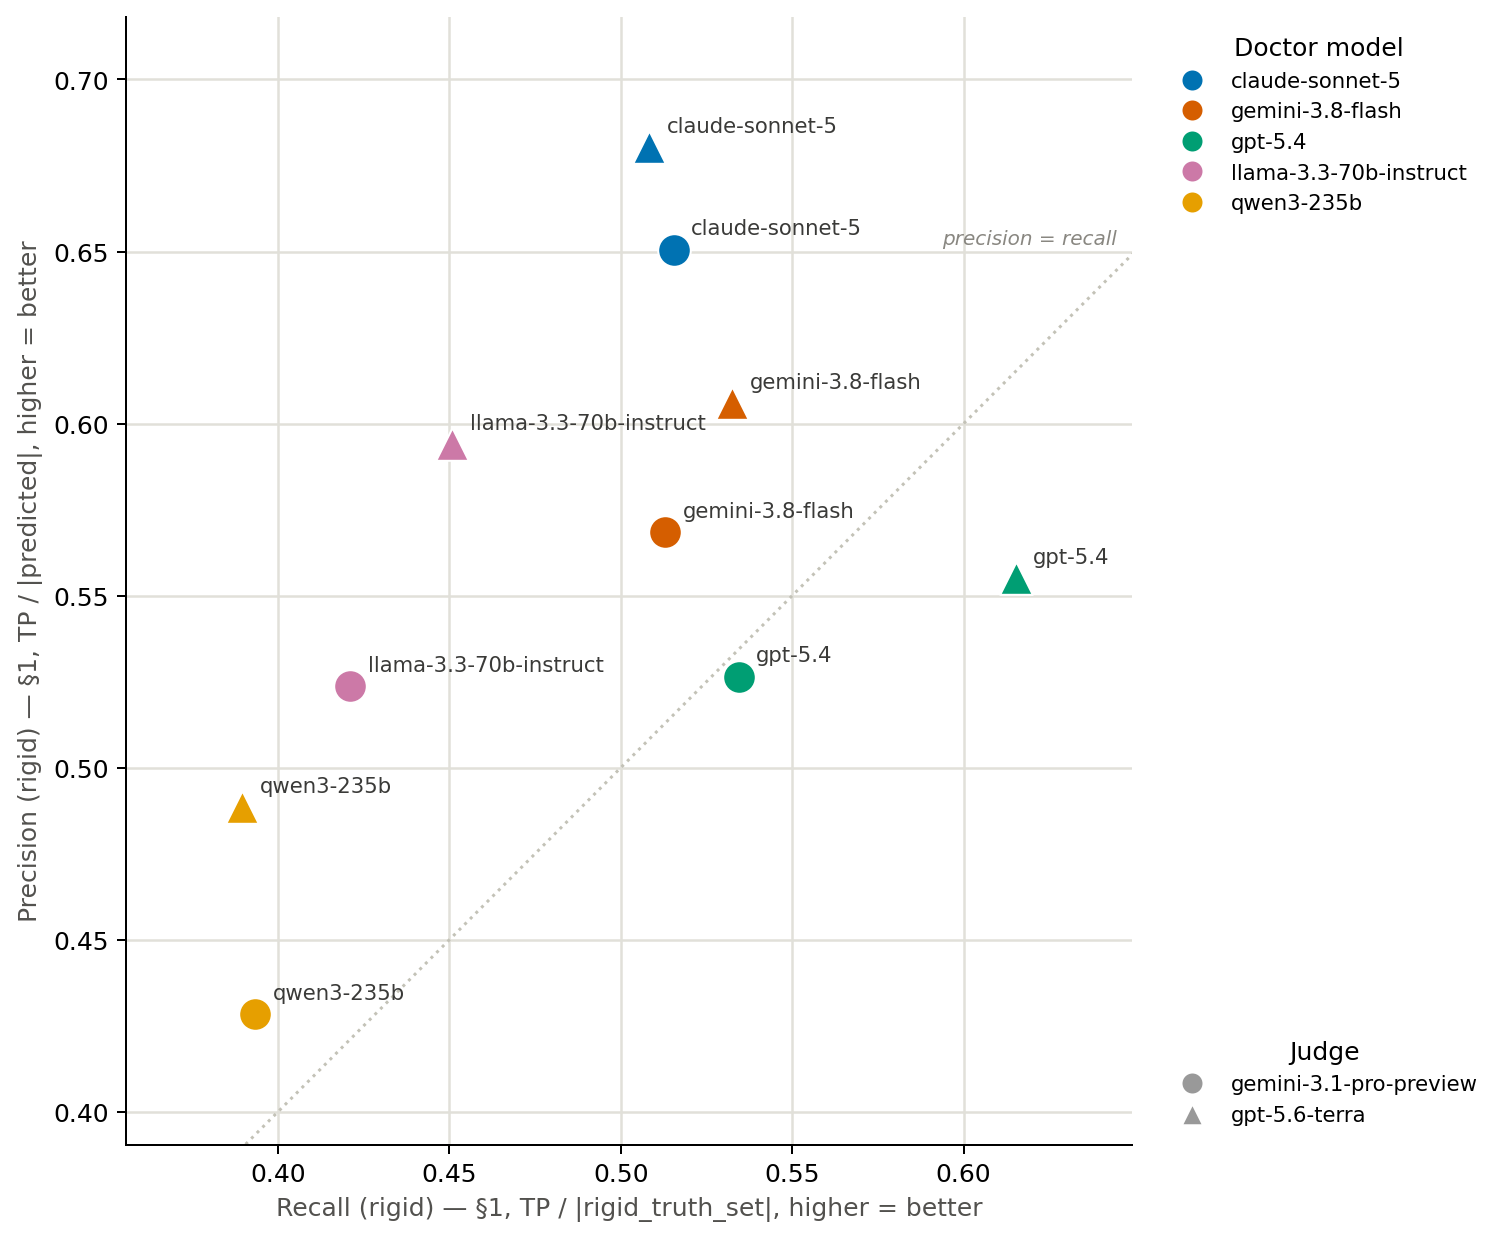
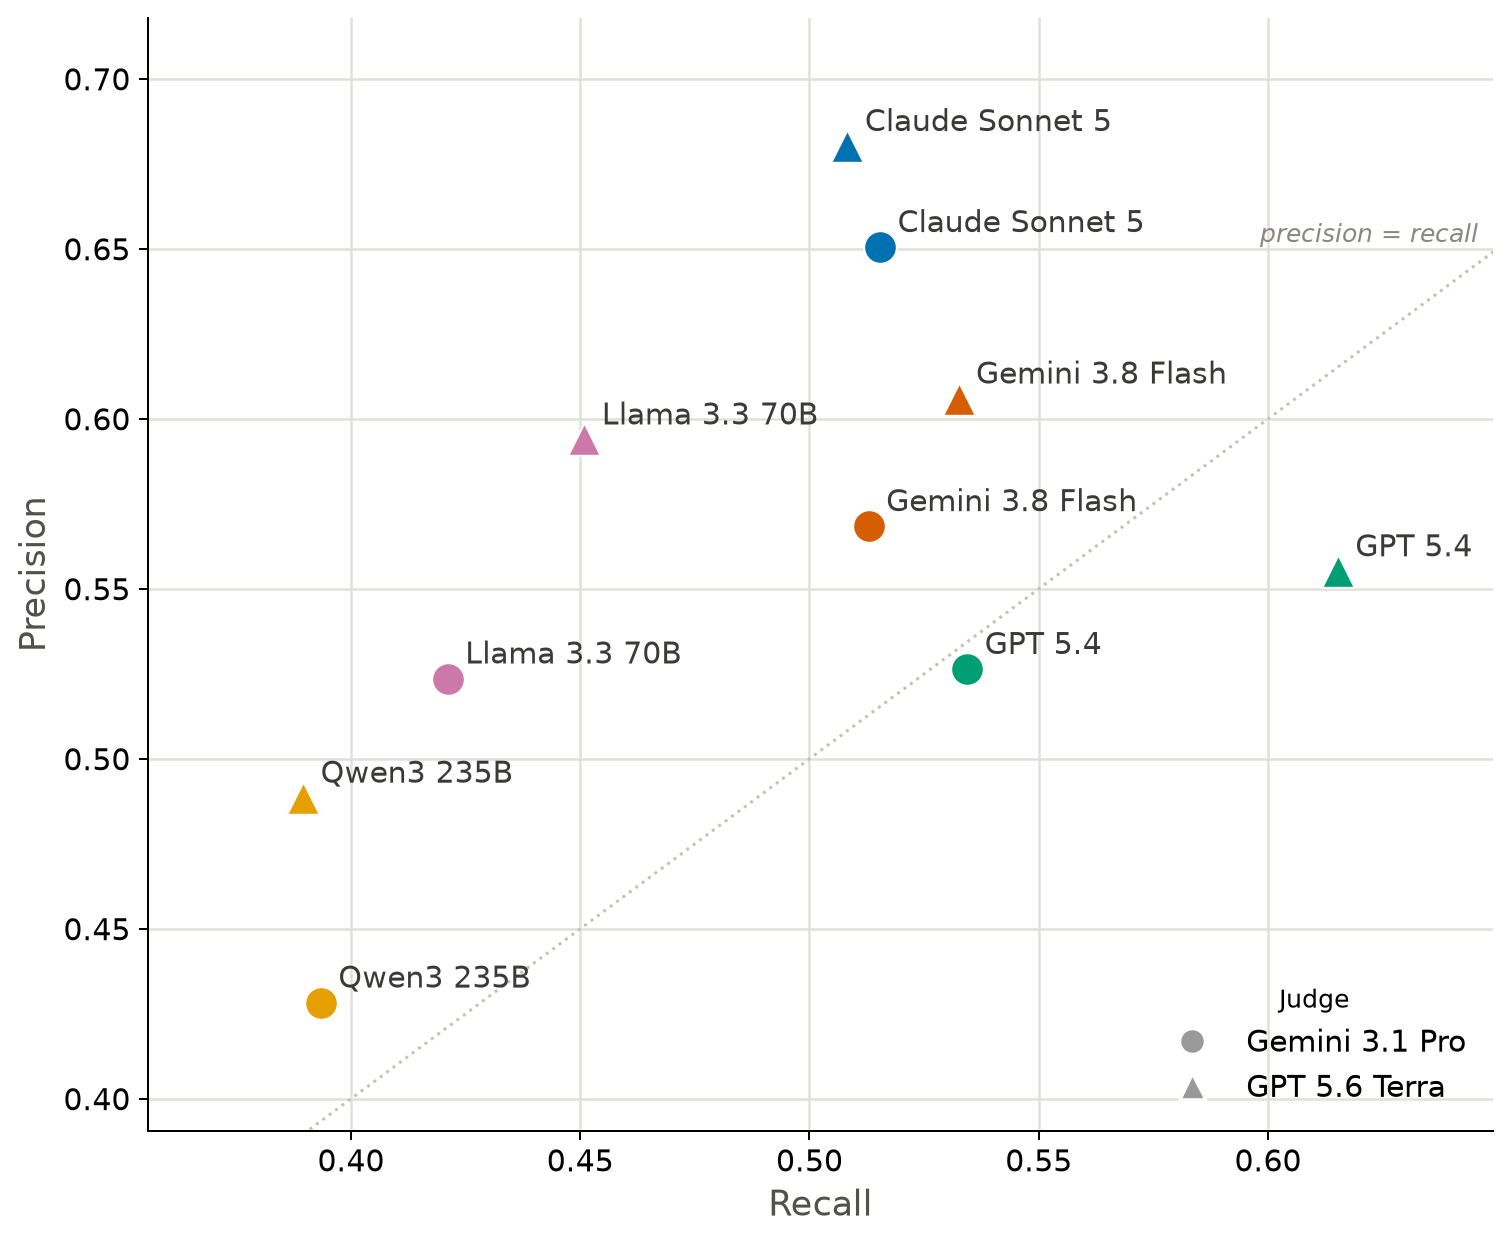
precision and recall plot

diff --git a/reporting/plot_v4_precision_vs_recall.py b/reporting/plot_v4_precision_vs_recall.py
@@ -39,6 +39,12 @@ if str(_REPO_ROOT) not in _sys.path:
 os.environ.setdefault("MS_RUN", "run_batch_20260912")
 
 from utils.paths import ANALYSIS_ROOT
+from reporting.plot_v4_radar_by_judge import DOCTOR_NAME_CANONICAL
+
+JUDGE_NAME_CANONICAL = {
+    "gemini-3.1-pro-preview": "Gemini 3.1 Pro",
+    "gpt-5.6-terra": "GPT 5.6 Terra",
+}
 
 SELECTED_DOCTORS = {
     "gpt-5.4",
@@ -115,7 +121,7 @@ def main() -> None:
     ax.plot([diag_lo, diag_hi], [diag_lo, diag_hi], color="#c3c2b7", linewidth=1.2,
             linestyle=":", zorder=1, clip_on=True)
     ax.annotate("precision = recall", (x_hi, min(x_hi, y_hi)), textcoords="offset points",
-                xytext=(-6, 4), ha="right", fontsize=8, color="#898781", style="italic")
+                xytext=(-6, 4), ha="right", fontsize=10, color="#898781", style="italic")
 
     seen_models: set[str] = set()
     for judge, doctor, x, y in points:
@@ -124,14 +130,16 @@ def main() -> None:
         seen_models.add(doctor.lower())
         ax.scatter(x, y, color=color, marker=marker_of[judge], s=170,
                    edgecolors="white", linewidths=0.8, zorder=3, label=label)
-        ax.annotate(doctor, (x, y), textcoords="offset points", xytext=(7, 6),
-                    fontsize=8.5, color="#3a3a38")
+        ax.annotate(DOCTOR_NAME_CANONICAL.get(doctor.lower(), doctor), (x, y),
+                    textcoords="offset points", xytext=(7, 6),
+                    fontsize=12, color="#3a3a38")
 
     ax.set_xlim(x_lo, x_hi)
     ax.set_ylim(y_lo, y_hi)
 
-    ax.set_xlabel("Recall (rigid) — §1, TP / |rigid_truth_set|, higher = better", fontsize=10, color="#52514e")
-    ax.set_ylabel("Precision (rigid) — §1, TP / |predicted|, higher = better", fontsize=10, color="#52514e")
+    ax.set_xlabel("Recall", fontsize=14, color="#52514e")
+    ax.set_ylabel("Precision", fontsize=14, color="#52514e")
+    ax.tick_params(axis="both", labelsize=12)
     # ax.set_title(
     #     "evaluation_v4.md §1 — Precision vs. Recall",
     #     fontsize=12, fontweight="bold",
@@ -143,19 +151,22 @@ def main() -> None:
 
     model_handles = [
         plt.Line2D([0], [0], marker="o", color="w", markerfacecolor=color_of[d],
-                   markeredgecolor="white", markersize=9, label=d)
+                   markeredgecolor="white", markersize=10, label=DOCTOR_NAME_CANONICAL.get(d, d))
         for d in canonical_doctors
     ]
     judge_handles = [
         plt.Line2D([0], [0], marker=marker_of[j], color="w", markerfacecolor="#999999",
-                   markeredgecolor="white", markersize=9, label=j)
+                   markeredgecolor="white", markersize=10, label=JUDGE_NAME_CANONICAL.get(j, j))
         for j in judges
     ]
-    leg1 = ax.legend(handles=model_handles, title="Doctor model", loc="upper left",
-                      bbox_to_anchor=(1.02, 1.0), fontsize=8.5, frameon=False)
-    ax.add_artist(leg1)
-    ax.legend(handles=judge_handles, title="Judge", loc="lower left",
-              bbox_to_anchor=(1.02, 0.0), fontsize=8.5, frameon=False)
+    # legend: models
+    # leg1 = ax.legend(handles=model_handles, title="Doctor model", loc="upper left",
+    #                   bbox_to_anchor=(1.02, 1.0), fontsize=12, frameon=False)
+    # ax.add_artist(leg1)
+    # legend: judges
+    ax.legend(handles=judge_handles, title="Judge", loc="lower right",
+              # bbox_to_anchor=(1.02, 0.0), 
+              fontsize=12, frameon=False)
 
     fig.tight_layout()
     out_path = Path(args.out) if args.out else ANALYSIS_ROOT / "v4_precision_vs_recall.png"
